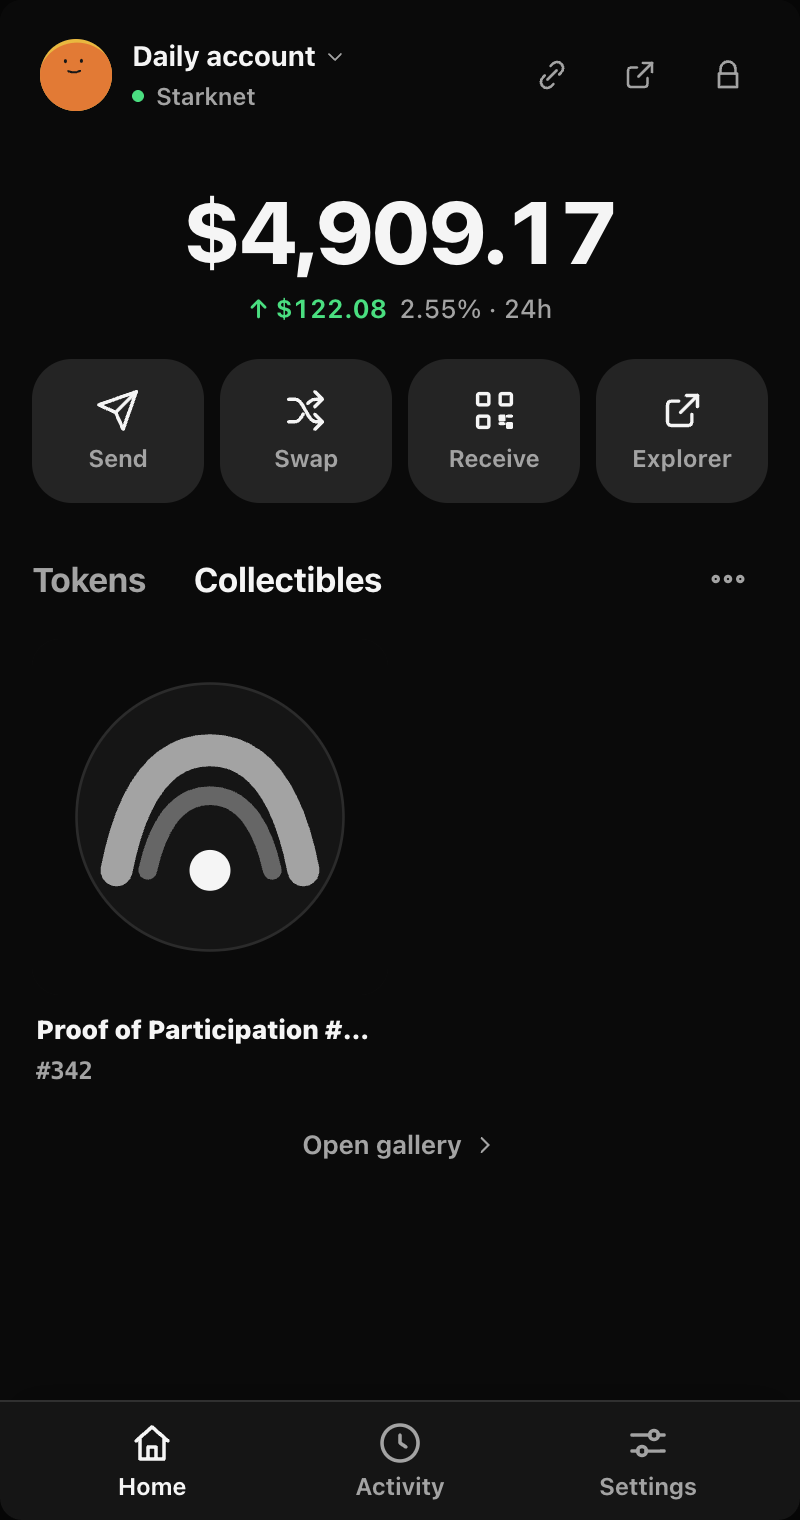
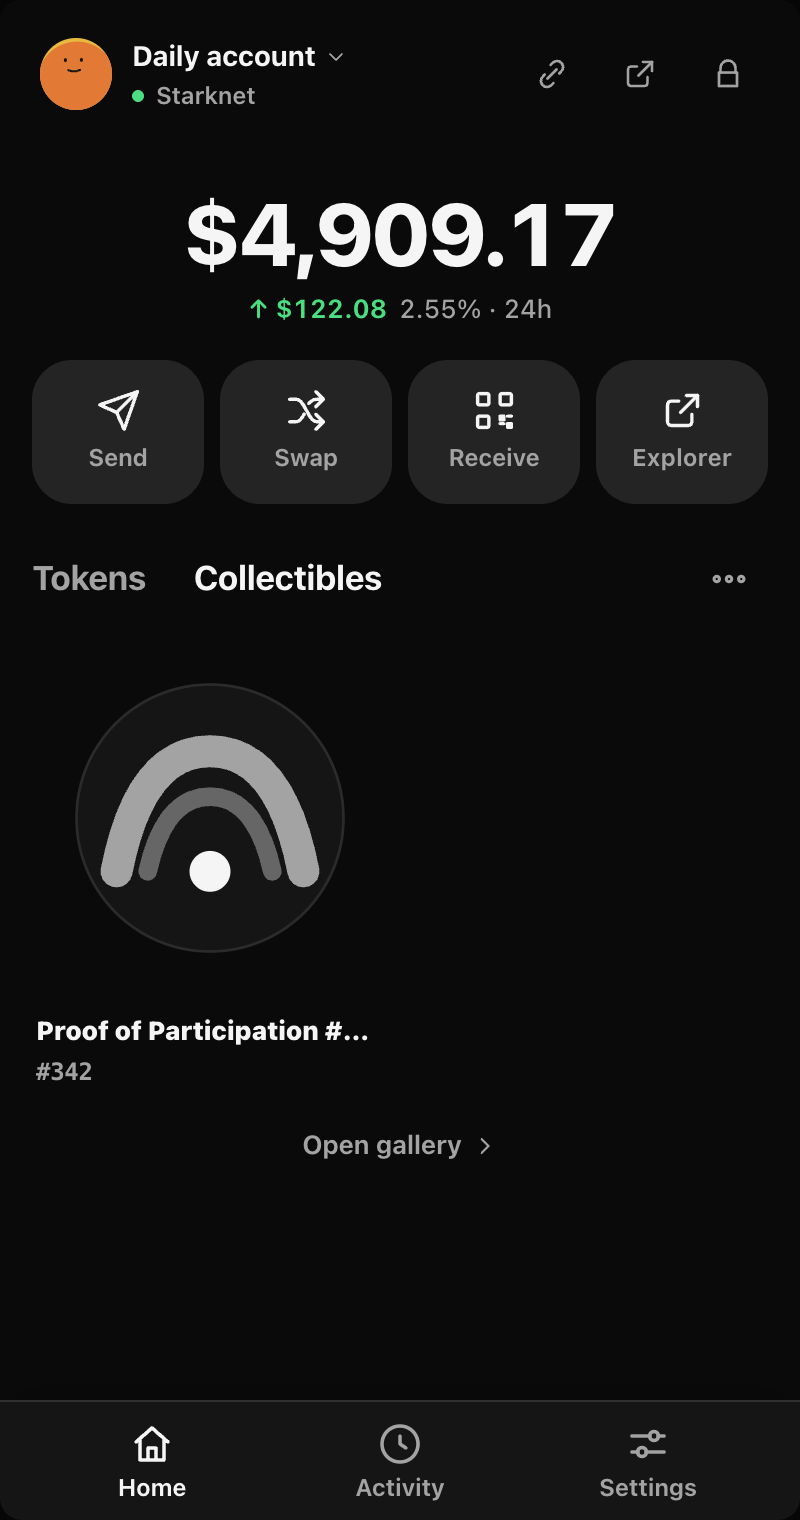
website: sharpen and animate wallet preview

diff --git a/apps/website/src/styles/home.css b/apps/website/src/styles/home.css
@@ -104,6 +104,45 @@
   transform: translateX(0);
 }
 
+.wallet-success-mark {
+  position: absolute;
+  top: 22.53%;
+  left: 50%;
+  z-index: 2;
+  width: 19%;
+  color: var(--wallet-positive);
+  pointer-events: none;
+  transform: translateX(-50%);
+}
+
+.wallet-success-mark svg {
+  display: block;
+  width: 100%;
+  fill: none;
+  stroke: currentColor;
+  stroke-linecap: round;
+  stroke-linejoin: round;
+  stroke-width: 3.2;
+}
+
+.wallet-success-ring {
+  animation: wallet-success-draw 480ms var(--ease-out) 40ms forwards;
+  stroke-dasharray: 158;
+  stroke-dashoffset: 158;
+}
+
+.wallet-success-check {
+  animation: wallet-success-draw 280ms var(--ease-out) 430ms forwards;
+  stroke-dasharray: 32;
+  stroke-dashoffset: 32;
+}
+
+@keyframes wallet-success-draw {
+  to {
+    stroke-dashoffset: 0;
+  }
+}
+
 .wallet-hotspots {
   position: absolute;
   inset: 0;

diff --git a/apps/website/src/styles/base.css b/apps/website/src/styles/base.css
@@ -30,6 +30,7 @@
   --secondary-foreground: #171717;
   --muted: #ececea;
   --muted-foreground: #62625e;
+  --wallet-positive: #4ade80;
   --border: #d6d6d2;
   --ring: #171717;
   --radius: 0.875rem;
@@ -48,6 +49,7 @@
 html {
   background: var(--background);
   color: var(--foreground);
+  overscroll-behavior-y: none;
   scroll-behavior: smooth;
   scrollbar-color: #8a8a84 var(--background);
 }
@@ -59,6 +61,7 @@ body {
   color: var(--foreground);
   font-family: "Instrument Sans Variable", "Helvetica Neue", sans-serif;
   font-synthesis: none;
+  overscroll-behavior-y: none;
   text-rendering: optimizeLegibility;
 }
 

diff --git a/apps/website/src/components/wallet-preview.tsx b/apps/website/src/components/wallet-preview.tsx
@@ -122,6 +122,16 @@ export const WalletPreview = () => {
         );
       })}
 
+      {screen === "success" ? (
+        <span aria-hidden="true" className="wallet-success-mark">
+          <svg viewBox="0 0 56 56">
+            <title>Transaction successful</title>
+            <circle className="wallet-success-ring" cx="28" cy="28" r="25" />
+            <path className="wallet-success-check" d="M18 29.5l7 7 14-15" />
+          </svg>
+        </span>
+      ) : null}
+
       {screen === "home" ? (
         <fieldset aria-label="Try the wallet preview" className="wallet-hotspots">
           <button

diff --git a/apps/website/src/styles/responsive.css b/apps/website/src/styles/responsive.css
@@ -187,4 +187,10 @@
   .wallet-screen {
     transition: none;
   }
+
+  .wallet-success-ring,
+  .wallet-success-check {
+    animation: none;
+    stroke-dashoffset: 0;
+  }
 }
